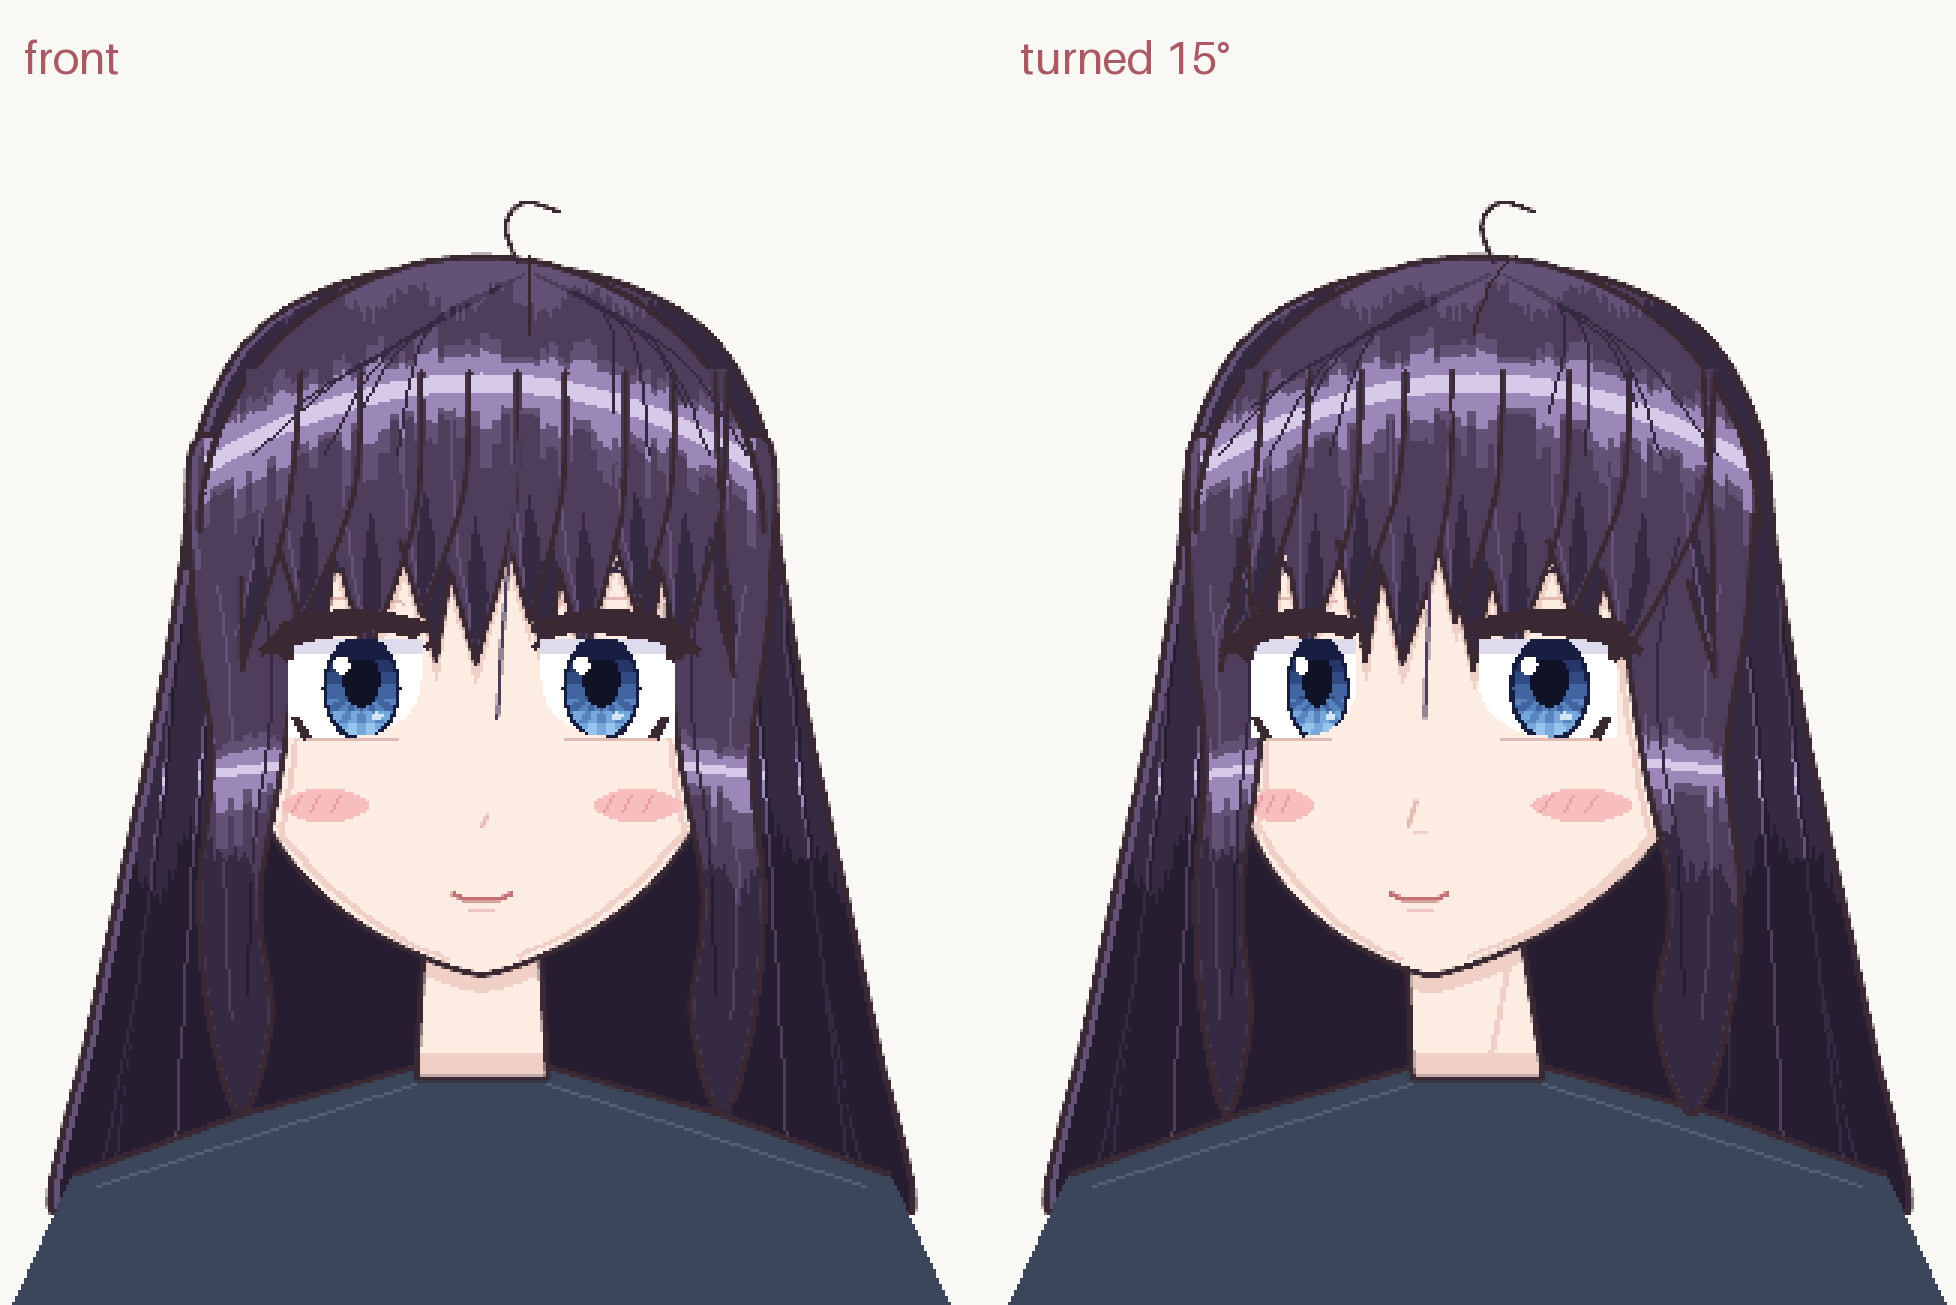
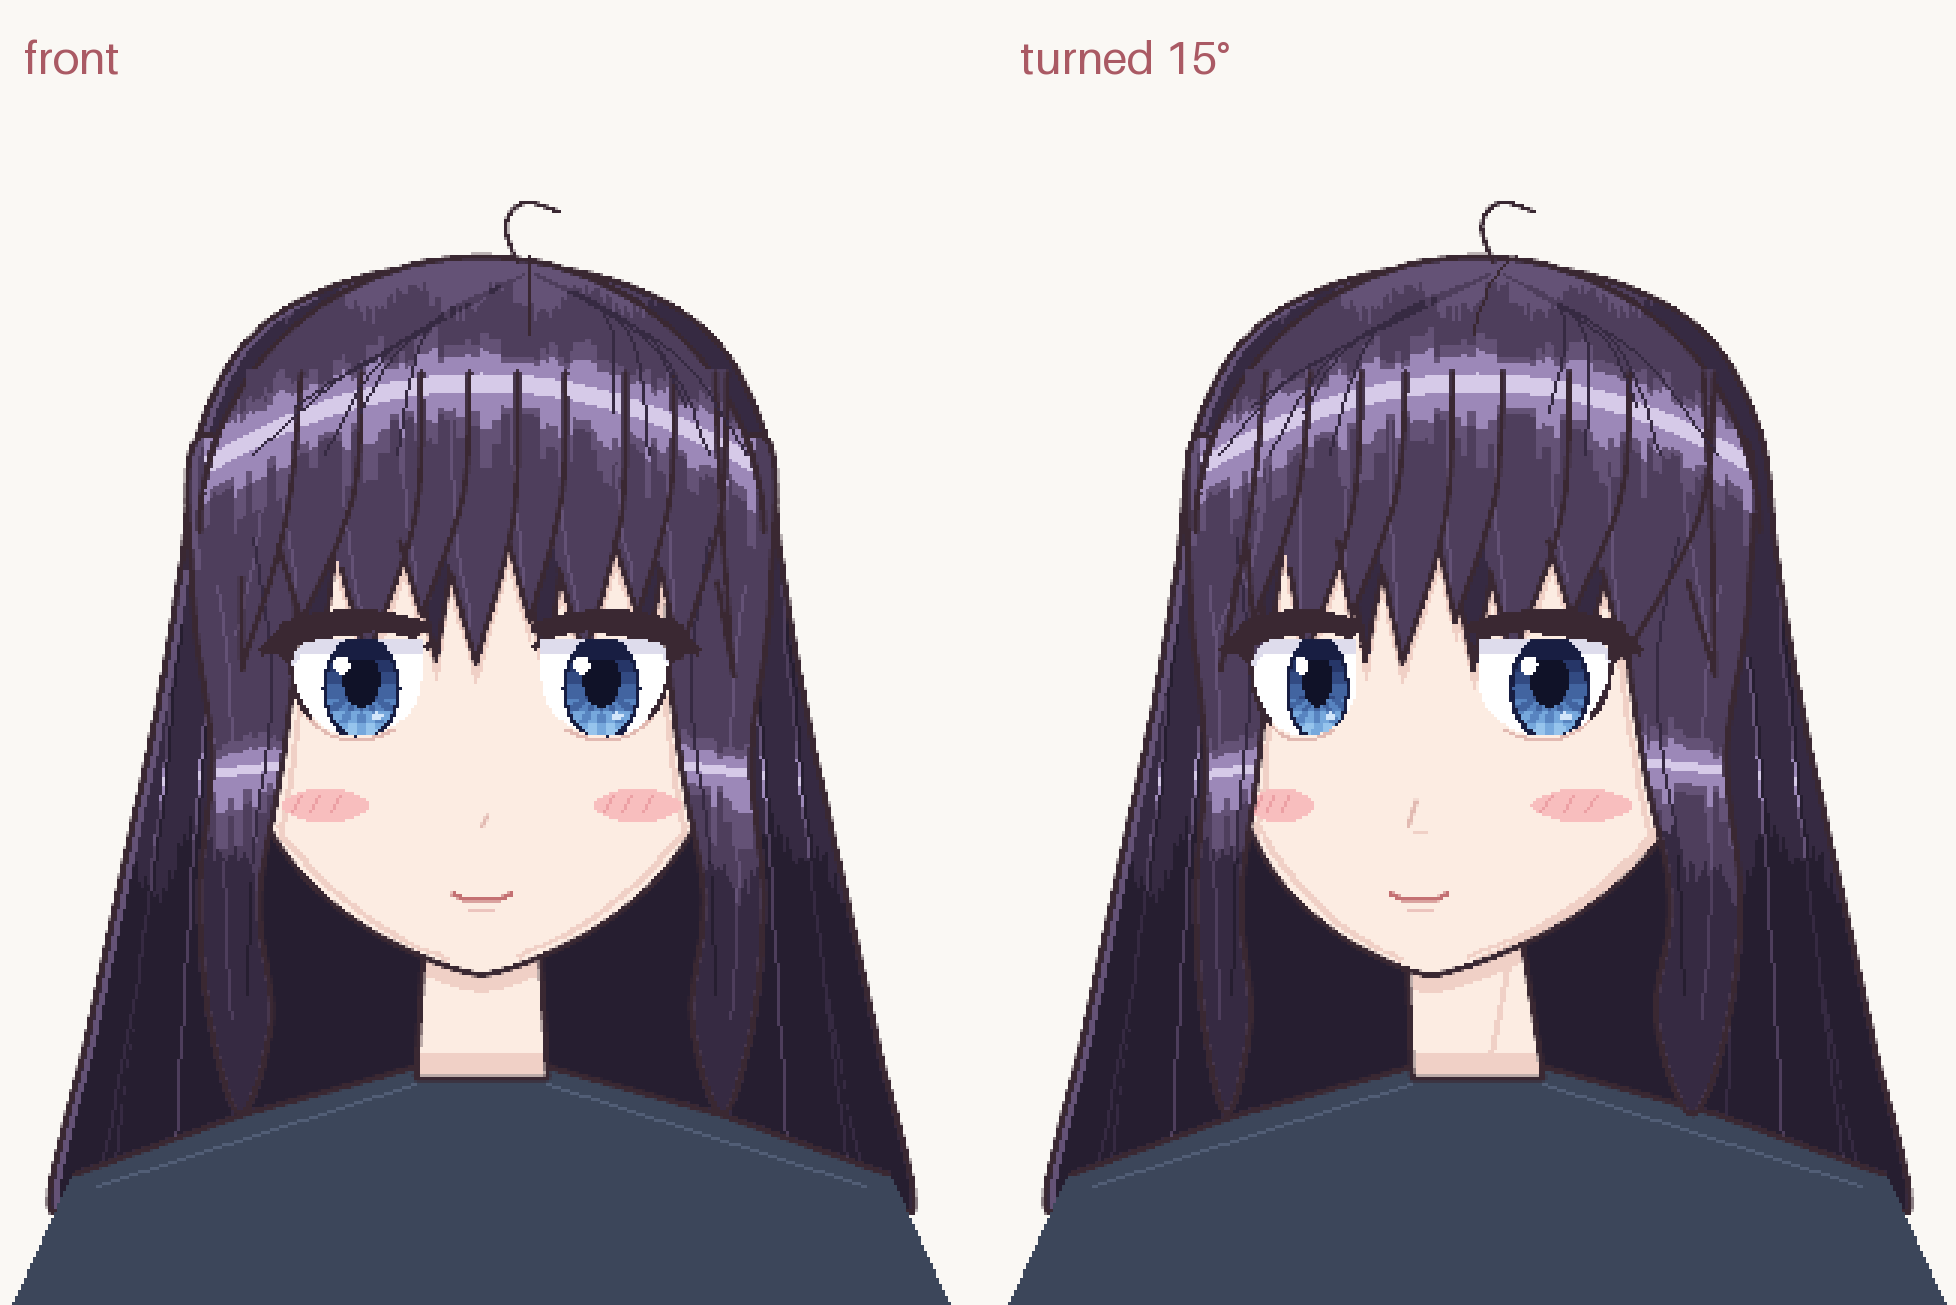
Face study: close the eye's outer corner, remove stray brow/crease dashes, bang slivers and the center strand
Claude-Session: https://claude.ai/code/session_0155yoUibrhMAmrpcv8V9b9L

diff --git a/draw_face_study.py b/draw_face_study.py
@@ -367,10 +367,11 @@ def bang_clumps(lst):
 
 
 # ------------------------------------------------------------------ face features
-def eye(pen, cx, flip, color, scale=1.0, gaze=0.0):
+def eye(pen, cx, flip, color, scale=1.0, gaze=0.0, hair=False):
     """Anime eye. Shapes are measured in 'eye units' (E pixels each) and filled pixel by
     pixel, so the eye stays smooth at any resolution. scale squeezes it sideways (far eye on
-    a turned head); gaze slides the iris left/right (eye units)."""
+    a turned head); gaze slides the iris left/right (eye units). With hair=True the bangs
+    cover the brow and the lid crease, so those are left out."""
     s = -1 if flip else 1                       # +1: outer corner on the left
     ecx = pen.ox + cx * K                       # eye centre (screen px)
     top = pen.oy + (EYE_Y + 1) * K              # top of the opening (screen px)
@@ -382,13 +383,24 @@ def eye(pen, cx, flip, color, scale=1.0, gaze=0.0):
     irx, iry, icy = 6.5 * scale, 9, 9
     prx, pry, pcy = 3.1 * scale, 4.6, 7.5
 
+    uo, vo = -w + 0.3, 4.4                      # outer corner, tucked under the lash flick
+
+    def top_v(u):
+        """Upper edge of the opening: flat under the lash, dipping into the outer corner."""
+        if u >= -w + 3:
+            return 1.0
+        k = (-w + 3 - u) / (-w + 3 - uo)
+        return 1 + (vo - 1) * k * k
+
+    def bot_v(u):
+        """Lower lid: rises into the outer corner, rounds up toward the inner corner."""
+        if u <= 0:
+            k = u / uo
+            return vo + (h - vo) * math.sqrt(max(0.0, 1 - k * k))
+        return h * (0.45 + 0.55 * math.sqrt(max(0.0, 1 - (u / w) ** 2)))
+
     def inside(u, v):
-        """Eye opening: flat-ish top, rounded bottom toward the inner corner."""
-        if v < 1 or v > h:
-            return False
-        t = v / h
-        half = w * math.sqrt(max(0.0, 1 - max(0.0, (t - 0.45) / 0.55) ** 2))
-        return -w + (1 if v < 3 else 0) <= u <= half
+        return uo <= u <= w and top_v(u) <= v <= bot_v(u)
 
     def frange(a, b, step=0.25):
         n = max(1, int((b - a) / step))
@@ -405,8 +417,9 @@ def eye(pen, cx, flip, color, scale=1.0, gaze=0.0):
             dx = sx - iris_c
             e = (dx / irx) ** 2 + ((v - icy) / iry) ** 2
             pupil = (dx / prx) ** 2 + ((v - pcy) / pry) ** 2 <= 1
+            lid = v - top_v(s * sx)                 # distance below the upper lid
             if color:
-                c = SCLERA_SHADE if v <= 3 else WHITE
+                c = SCLERA_SHADE if lid <= 2 else WHITE
                 if e <= 1:
                     i = min(int(v / h * len(IRIS)), len(IRIS) - 1)
                     if v > icy + 1 and int((math.atan2(v - icy, dx) + math.pi) * 26 / (2 * math.pi)) % 2:
@@ -416,7 +429,7 @@ def eye(pen, cx, flip, color, scale=1.0, gaze=0.0):
                         c = IRIS[0]                    # dark rim
                     if pupil:
                         c = PUPIL
-                    if v <= 4:
+                    if lid <= 3:
                         c = IRIS[0]                    # shadow of the lid
             else:
                 c = BG
@@ -455,22 +468,26 @@ def eye(pen, cx, flip, color, scale=1.0, gaze=0.0):
             (-w - 0.4, 4.7), (-w + 0.6, 4.2), (-w + 0.6, 1.5)]
     d.polygon([(SX(u), SY(v)) for u, v in wing], fill=LINE)          # outer flick
     blob(s * (w + 1), 2, 0.6, 0.6, LINE, clip=False)                  # inner corner
-    # double eyelid crease (only on skin, not over hair)
-    crease = [(SX(u), SY(-4 - 2 * (1 - (u / w) ** 2))) for u in frange(-w + 3, w - 3)]
-    pen._clip(crease, SKIN_SHADE2 if color else LINE, {SKIN, SKIN_SHADE, BG},
-              lambda md, q: md.line(q, fill=1, width=1))
-    # lower lash, soft, with a short dark stroke at the outer end
-    d.line([(SX(u), SY(h + 0.9)) for u in (-w + 3, w - 4)], fill=SKIN_SHADE2 if color else LINE, width=1)
-    d.polygon([(SX(u), SY(v)) for u, v in ((-w + 0.6, h - 2.6), (-w + 1.6, h - 2.9), (-w + 3.8, h + 0.3),
-                                           (-w + 2.5, h + 0.7))], fill=LINE)
+    if not hair:   # double eyelid crease
+        crease = [(SX(u), SY(-4 - 2 * (1 - (u / w) ** 2))) for u in frange(-w + 3, w - 3)]
+        pen._clip(crease, SKIN_SHADE2 if color else LINE, {SKIN, SKIN_SHADE, BG},
+                  lambda md, q: md.line(q, fill=1, width=1))
+    # lower lid: a soft line under the eye, and a dark tapered stroke that closes the outer corner
+    d.line([(SX(u), SY(bot_v(u) + 0.9)) for u in frange(uo + 2.5, w * 0.6)],
+           fill=SKIN_SHADE2 if color else LINE, width=1)
+    ul = frange(uo, uo + 3.6)
+    th = lambda u: 0.2 + 0.75 * (1 - (u - uo) / 3.6)
+    d.polygon([(SX(u), SY(bot_v(u) + 0.3 - th(u))) for u in ul] +
+              [(SX(u), SY(bot_v(u) + 0.3 + th(u))) for u in reversed(ul)], fill=LINE)
     # brow: thin in the middle of its length, a touch lower at the outer end
     ub = frange(-w + 2, w - 2)
     mid, half_len = (ub[0] + ub[-1]) / 2, (ub[-1] - ub[0]) / 2
     bv = lambda u: -11 + max(0.0, min(1.0, (-w + 5 - u) / 3))
     bt = lambda u: 0.3 + 0.32 * (1 - ((u - mid) / half_len) ** 2)
-    brow = [(SX(u), SY(bv(u) - bt(u))) for u in ub] + [(SX(u), SY(bv(u) + bt(u))) for u in reversed(ub)]
-    pen._clip(brow, HAIR_SHADE if color else LINE, {SKIN, SKIN_SHADE, BG},
-              lambda md, q: md.polygon(q, fill=1))
+    if not hair:
+        brow = [(SX(u), SY(bv(u) - bt(u))) for u in ub] + [(SX(u), SY(bv(u) + bt(u))) for u in reversed(ub)]
+        pen._clip(brow, HAIR_SHADE if color else LINE, {SKIN, SKIN_SHADE, BG},
+                  lambda md, q: md.polygon(q, fill=1))
 
 
 def eye_layout():
@@ -485,11 +502,11 @@ def eye_layout():
     return out
 
 
-def features(pen, color):
+def features(pen, color, hair=False):
     gaze = 1.5 * TURN / 15          # eyes glance back toward the viewer
     (lx, ls), (rx, rs) = eye_layout()
-    eye(pen, lx, False, color, ls, gaze)
-    eye(pen, rx, True, color, rs, gaze)
+    eye(pen, lx, False, color, ls, gaze, hair)
+    eye(pen, rx, True, color, rs, gaze, hair)
     nose = SKIN_SHADE2 if color else LINE
     if TURN == 0:
         pen.aa_line([(CX + 0.5, NOSE_Y - 1), (CX, NOSE_Y)], nose, width=0.6 * E)
@@ -603,14 +620,9 @@ def hair_front(pen, step):
     for c in front:
         pen.poly(clump(*c), fill=hf)
     if color:
-        # each clump: darker core toward the tip, lighter rim on one side = rounded volume
+        # each clump: a lighter rim on one side gives it a rounded look
         for rl, rr, tx, ty in front:
             cx = (rl + rr) / 2
-            y0 = (24 + ty) / 2
-            top_pt, tip_pt = (cx + (tx - cx) * 0.4, y0 - 1), (tx, ty - 1.2)
-            left = smooth([top_pt, (cx - 0.5 + (tx - cx) * 0.6, (y0 + ty) / 2), tip_pt], n=6, closed=False)
-            right = smooth([tip_pt, (cx + 0.9 + (tx - cx) * 0.65, (y0 + ty) / 2), top_pt], n=6, closed=False)
-            pen.poly(left + right[1:], fill=HAIR_SHADE)
             pen.line(smooth([(rl + 1.4, 23.5), (rl + 1.8 + (tx - cx) * 0.3, (23 + ty) / 2), (tx - 0.4, ty - 3)],
                             n=5, closed=False), fill=HAIR_MID)
         # side locks: shaded inner half, highlight curve following the S
@@ -621,9 +633,6 @@ def hair_front(pen, step):
     for c in front:
         pts = clump(*c)
         pen.aa_line(pts[len(pts) // 3:], LINE, width=0.7 * E)
-    # one thin strand falling between the eyes
-    strand = smooth(warp([(43.5, 23), (42.6, 34), (41.7, 44), (41.3, 51)], bang_z), n=6, closed=False)
-    pen.aa_line(strand, HAIR if color else LINE, width=0.55 * E)
     # strand flow from the part, curving with the dome
     flow = HAIR_SHADE if color else GUIDE_FAINT
     for x, y_end in FLOW:
@@ -801,7 +810,7 @@ def panel(img, ox, oy, step):
         hair_front(pen, step)
         if color:
             hair_light(pen, img)
-    features(pen, color)       # eyes and brows sit on top of the bangs
+    features(pen, color, hair=step >= 3)      # eyes sit on top of the bangs
 
 
 def render(turn, name, title, labels):
